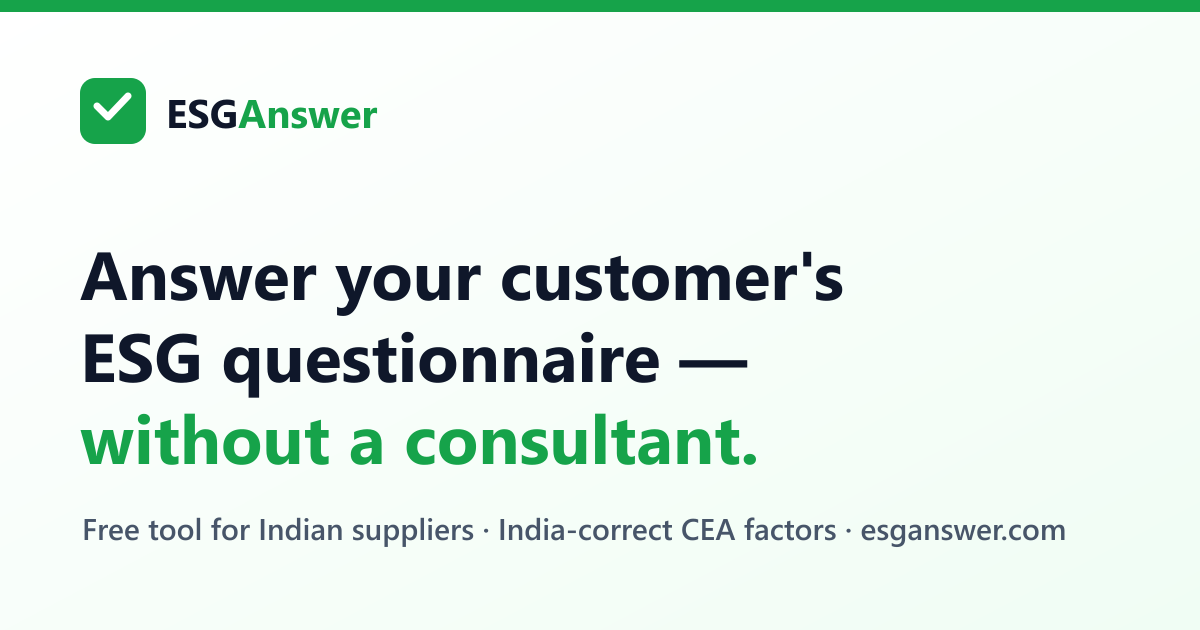
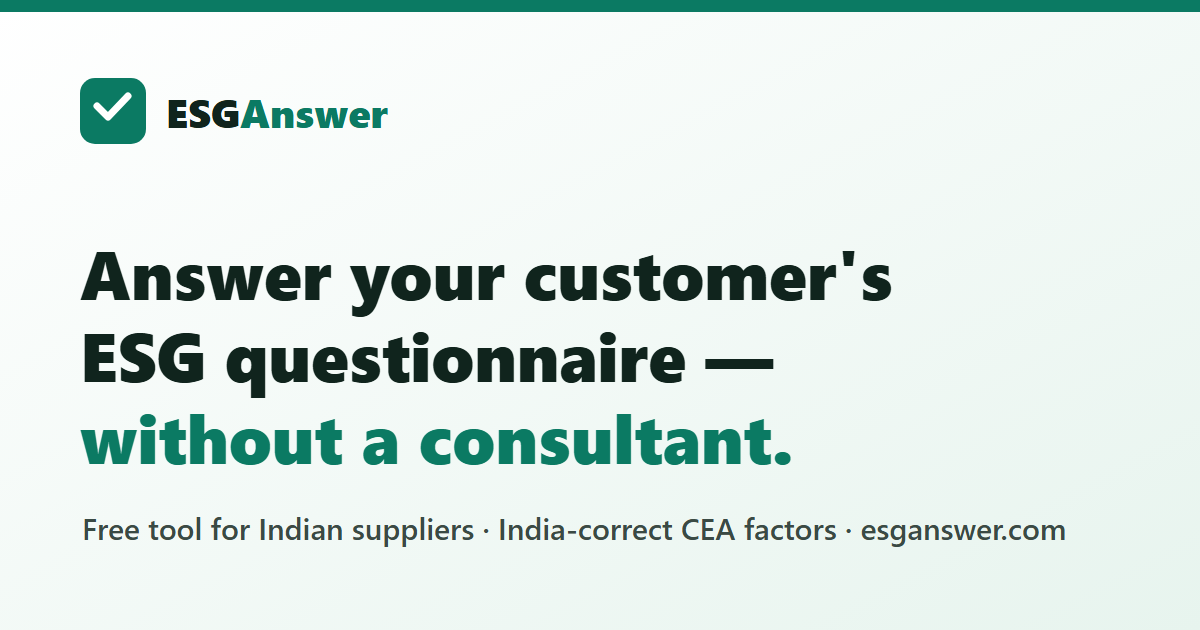
Rebrand to a distinct identity + ship evidence-folder template
- New visual identity, separate from wibest: Space Grotesk headings +
  Inter body (was Outfit/DM Sans), deeper emerald-teal palette (#0b7a63)
  on a warm paper background. Applied across homepage, all 5 guides,
  shared style.css, favicon, apple-touch icon and OG image.
- Add downloadable ESG Evidence Folder spreadsheet (6 tabs: Read Me,
  Company Profile, Environment & Carbon, Social, Governance, auto-
  calculating Carbon Summary using CEA V21 grid factor 0.7117).
- Lead form now delivers the template instantly on submit and keeps the
  Formspree hook for optional email capture; evidence-folder guide gets
  a direct download CTA.

diff --git a/index.html b/index.html
@@ -13,11 +13,11 @@
 <meta property="og:url" content="https://esganswer.com/">
 <link rel="preconnect" href="https://fonts.googleapis.com">
 <link rel="preconnect" href="https://fonts.gstatic.com" crossorigin>
-<link href="https://fonts.googleapis.com/css2?family=DM+Sans:wght@400;500;600;700&family=Outfit:wght@600;700;800&display=swap" rel="stylesheet">
+<link href="https://fonts.googleapis.com/css2?family=Inter:wght@400;500;600;700&family=Space+Grotesk:wght@500;600;700&display=swap" rel="stylesheet">
 <link rel="icon" href="/favicon.svg" type="image/svg+xml">
 <link rel="icon" href="/favicon-32.png" sizes="32x32" type="image/png">
 <link rel="apple-touch-icon" href="/apple-touch-icon.png">
-<meta name="theme-color" content="#16a34a">
+<meta name="theme-color" content="#0b7a63">
 <meta property="og:image" content="https://esganswer.com/og-image.png">
 <meta property="og:image:width" content="1200">
 <meta property="og:image:height" content="630">
@@ -25,26 +25,26 @@
 
 <style>
 :root{
-  --green:#16a34a; --green-d:#15803d; --ink:#0f172a; --body:#334155; --muted:#64748b;
-  --bg:#ffffff; --card:#f8fafc; --border:#e2e8f0; --green-light:#f0fdf4;
+  --green:#0b7a63; --green-d:#075345; --ink:#10241d; --body:#3a4a44; --muted:#6b7a73;
+  --bg:#f8faf8; --card:#eef3f0; --border:#dce5e0; --green-light:#e7f4ee;
 }
 *{box-sizing:border-box}
-body{margin:0;font-family:'DM Sans',system-ui,sans-serif;color:var(--body);background:var(--bg);line-height:1.6;-webkit-font-smoothing:antialiased}
-h1,h2,h3,.brand{font-family:'Outfit',sans-serif;color:var(--ink);letter-spacing:-0.02em}
+body{margin:0;font-family:'Inter',system-ui,sans-serif;color:var(--body);background:var(--bg);line-height:1.6;-webkit-font-smoothing:antialiased}
+h1,h2,h3,.brand{font-family:'Space Grotesk',sans-serif;color:var(--ink);letter-spacing:-0.02em}
 a{color:var(--green-d)}
 .wrap{max-width:960px;margin:0 auto;padding:0 22px}
 
 /* header */
 header.site{border-bottom:1px solid var(--border);padding:16px 0;position:sticky;top:0;background:rgba(255,255,255,.92);backdrop-filter:blur(8px);z-index:10}
 .site .wrap{display:flex;align-items:center;justify-content:space-between}
-.brand{font-size:20px;font-weight:800;color:var(--ink);text-decoration:none;display:flex;align-items:center;gap:8px}
+.brand{font-size:20px;font-weight:700;color:var(--ink);text-decoration:none;display:flex;align-items:center;gap:8px}
 .brand svg{color:var(--green)}
 .brand span{color:var(--green)}
 .tagline{font-size:12.5px;color:var(--muted)}
 
 /* hero */
 .hero{padding:48px 0 12px;text-align:center}
-.hero h1{font-size:34px;font-weight:800;line-height:1.15;margin:0 0 14px}
+.hero h1{font-size:34px;font-weight:700;line-height:1.15;margin:0 0 14px}
 .hero p{font-size:17px;color:var(--body);max-width:680px;margin:0 auto 8px}
 .hero .sub{font-size:14px;color:var(--muted)}
 .pill{display:inline-block;background:var(--green-light);color:var(--green-d);font-size:12.5px;font-weight:700;padding:5px 13px;border-radius:99px;margin-bottom:18px}
@@ -70,18 +70,18 @@ header.site{border-bottom:1px solid var(--border);padding:16px 0;position:sticky
 .conv-box.open{display:block}
 
 /* summary */
-.summary{position:sticky;top:84px;background:linear-gradient(160deg,#ffffff,#f0fdf4);border:1px solid var(--border);border-radius:16px;padding:24px}
+.summary{position:sticky;top:84px;background:linear-gradient(160deg,#ffffff,#e7f4ee);border:1px solid var(--border);border-radius:16px;padding:24px}
 .summary h3{font-size:13px;text-transform:uppercase;letter-spacing:.05em;color:var(--muted);margin:0 0 14px;font-weight:700}
-.big-num{font-family:'Outfit';font-size:40px;font-weight:800;color:var(--green-d);line-height:1;letter-spacing:-.03em}
+.big-num{font-family:'Space Grotesk';font-size:40px;font-weight:700;color:var(--green-d);line-height:1;letter-spacing:-.03em}
 .big-num small{font-size:15px;color:var(--muted);font-weight:600}
 .sline{display:flex;justify-content:space-between;align-items:baseline;padding:9px 0;border-bottom:1px solid var(--border);font-size:13.5px}
 .sline:last-of-type{border-bottom:none}
-.sline .v{font-family:'Outfit';font-weight:700;color:var(--ink)}
+.sline .v{font-family:'Space Grotesk';font-weight:700;color:var(--ink)}
 .scope-split{display:flex;gap:8px;margin:14px 0}
 .scope-split>div{flex:1;background:#fff;border:1px solid var(--border);border-radius:10px;padding:10px;text-align:center}
 .scope-split .lab{font-size:11px;color:var(--muted)}
-.scope-split .v{font-family:'Outfit';font-weight:800;font-size:18px;color:var(--ink)}
-.btn{display:block;width:100%;text-align:center;padding:12px;background:var(--green);color:#fff;border:none;border-radius:10px;font-family:'Outfit';font-weight:700;font-size:14.5px;cursor:pointer;margin-top:16px;text-decoration:none}
+.scope-split .v{font-family:'Space Grotesk';font-weight:700;font-size:18px;color:var(--ink)}
+.btn{display:block;width:100%;text-align:center;padding:12px;background:var(--green);color:#fff;border:none;border-radius:10px;font-family:'Space Grotesk';font-weight:700;font-size:14.5px;cursor:pointer;margin-top:16px;text-decoration:none}
 .btn:hover{background:var(--green-d)}
 .btn.secondary{background:#fff;color:var(--green-d);border:1px solid var(--green);margin-top:9px}
 .gaps{margin-top:14px;font-size:12.5px;color:var(--muted)}
@@ -89,11 +89,11 @@ header.site{border-bottom:1px solid var(--border);padding:16px 0;position:sticky
 
 /* content sections */
 section.block{padding:40px 0;border-top:1px solid var(--border)}
-section.block h2{font-size:26px;font-weight:800;margin:0 0 18px}
+section.block h2{font-size:26px;font-weight:700;margin:0 0 18px}
 .steps{display:grid;gap:14px}
 .step{display:flex;gap:14px;background:var(--card);border:1px solid var(--border);border-radius:12px;padding:16px 18px}
-.step .n{flex:none;width:30px;height:30px;border-radius:50%;background:var(--green);color:#fff;font-family:'Outfit';font-weight:800;display:flex;align-items:center;justify-content:center;font-size:14px}
-.step h4{font-family:'Outfit';margin:0 0 3px;font-size:15px;color:var(--ink)}
+.step .n{flex:none;width:30px;height:30px;border-radius:50%;background:var(--green);color:#fff;font-family:'Space Grotesk';font-weight:700;display:flex;align-items:center;justify-content:center;font-size:14px}
+.step h4{font-family:'Space Grotesk';margin:0 0 3px;font-size:15px;color:var(--ink)}
 .step p{margin:0;font-size:13.5px}
 .faq details{border:1px solid var(--border);border-radius:10px;padding:14px 18px;margin-bottom:10px;background:var(--card)}
 .faq summary{font-weight:700;color:var(--ink);cursor:pointer;font-size:15px;list-style:none}
@@ -242,11 +242,11 @@ footer .method{max-width:680px;margin:0 auto 14px;line-height:1.7}
   <div class="wrap">
     <h2>Free step-by-step guides</h2>
     <div style="display:grid;gap:10px;margin-top:6px">
-      <a href="/got-an-esg-questionnaire/" style="padding:14px 16px;background:var(--card);border:1px solid var(--border);border-radius:11px;text-decoration:none;color:var(--ink);font-family:'Outfit';font-weight:700">Got an ESG questionnaire from a customer? What to do →</a>
-      <a href="/brsr-value-chain-suppliers/" style="padding:14px 16px;background:var(--card);border:1px solid var(--border);border-radius:11px;text-decoration:none;color:var(--ink);font-family:'Outfit';font-weight:700">BRSR value-chain rules for suppliers (FY2026–27) →</a>
-      <a href="/calculate-carbon-footprint-small-business-india/" style="padding:14px 16px;background:var(--card);border:1px solid var(--border);border-radius:11px;text-decoration:none;color:var(--ink);font-family:'Outfit';font-weight:700">How to calculate your small business carbon footprint in India →</a>
-      <a href="/vsme-template-explained/" style="padding:14px 16px;background:var(--card);border:1px solid var(--border);border-radius:11px;text-decoration:none;color:var(--ink);font-family:'Outfit';font-weight:700">The VSME template explained — for small suppliers →</a>
-      <a href="/esg-evidence-folder-msme/" style="padding:14px 16px;background:var(--card);border:1px solid var(--border);border-radius:11px;text-decoration:none;color:var(--ink);font-family:'Outfit';font-weight:700">The 1-page data folder that answers every questionnaire →</a>
+      <a href="/got-an-esg-questionnaire/" style="padding:14px 16px;background:var(--card);border:1px solid var(--border);border-radius:11px;text-decoration:none;color:var(--ink);font-family:'Space Grotesk';font-weight:700">Got an ESG questionnaire from a customer? What to do →</a>
+      <a href="/brsr-value-chain-suppliers/" style="padding:14px 16px;background:var(--card);border:1px solid var(--border);border-radius:11px;text-decoration:none;color:var(--ink);font-family:'Space Grotesk';font-weight:700">BRSR value-chain rules for suppliers (FY2026–27) →</a>
+      <a href="/calculate-carbon-footprint-small-business-india/" style="padding:14px 16px;background:var(--card);border:1px solid var(--border);border-radius:11px;text-decoration:none;color:var(--ink);font-family:'Space Grotesk';font-weight:700">How to calculate your small business carbon footprint in India →</a>
+      <a href="/vsme-template-explained/" style="padding:14px 16px;background:var(--card);border:1px solid var(--border);border-radius:11px;text-decoration:none;color:var(--ink);font-family:'Space Grotesk';font-weight:700">The VSME template explained — for small suppliers →</a>
+      <a href="/esg-evidence-folder-msme/" style="padding:14px 16px;background:var(--card);border:1px solid var(--border);border-radius:11px;text-decoration:none;color:var(--ink);font-family:'Space Grotesk';font-weight:700">The 1-page data folder that answers every questionnaire →</a>
     </div>
   </div>
 </section>
@@ -254,13 +254,13 @@ footer .method{max-width:680px;margin:0 auto 14px;line-height:1.7}
 <section class="block" style="text-align:center">
   <div class="wrap" style="max-width:560px">
     <h2>Get the editable evidence-folder template</h2>
-    <p style="margin-top:-6px">A free spreadsheet with every field a customer questionnaire asks for — fill once, reuse forever. We'll email it to you.</p>
+    <p style="margin-top:-6px">A free spreadsheet with every field a customer questionnaire asks for, plus an auto-calculating carbon summary — fill once, reuse forever. Download it instantly below.</p>
     <form id="leadForm" onsubmit="return submitLead(event)" style="display:flex;gap:8px;justify-content:center;flex-wrap:wrap;margin-top:14px">
       <input type="email" id="leadEmail" required placeholder="you@company" style="flex:1;min-width:220px;padding:11px 14px;border:1px solid var(--border);border-radius:10px;font-family:inherit;font-size:15px">
-      <button class="btn" type="submit" style="width:auto;margin:0;padding:11px 22px">Send it to me</button>
+      <button class="btn" type="submit" style="width:auto;margin:0;padding:11px 22px">Download the template</button>
     </form>
     <p id="leadMsg" style="font-size:13px;color:var(--green-d);min-height:18px;margin-top:10px"></p>
-    <p style="font-size:11.5px;color:var(--muted)">We never share your email. No spam — the template plus occasional supplier-ESG tips.</p>
+    <p style="font-size:11.5px;color:var(--muted)">Instant download — no waiting. We never share your email. No spam, just the occasional supplier-ESG tip. · <a href="/esg-evidence-folder-template.xlsx" download>Direct download</a></p>
   </div>
 </section>
 
@@ -336,19 +336,26 @@ function calc(){
 }
 calc();
 
-// ===== Email capture =====
-// TODO before launch: paste your Formspree / Netlify Forms endpoint below to actually
-// receive emails. Until then, entries are kept in localStorage only (nothing is sent).
+// ===== Template delivery + email capture =====
+// The template downloads instantly on submit (below). To ALSO collect emails as leads,
+// create a free form at formspree.io and paste its endpoint here (e.g. https://formspree.io/f/abcdwxyz).
+// Leave blank and the download still works — emails are just kept in this browser's localStorage.
 var FORM_ENDPOINT = "";
+var TEMPLATE_URL = "/esg-evidence-folder-template.xlsx";
 function submitLead(e){
   e.preventDefault();
   var em = document.getElementById('leadEmail').value;
+  // capture the lead (non-blocking)
   if(FORM_ENDPOINT){
-    fetch(FORM_ENDPOINT,{method:'POST',headers:{'Content-Type':'application/json'},body:JSON.stringify({email:em,source:'esganswer-template'})}).catch(function(){});
+    fetch(FORM_ENDPOINT,{method:'POST',headers:{'Content-Type':'application/json','Accept':'application/json'},body:JSON.stringify({email:em,source:'esganswer-evidence-folder'})}).catch(function(){});
   } else {
     try{ localStorage.setItem('esg_lead', em); }catch(_){}
   }
-  document.getElementById('leadMsg').textContent = "Thanks — we'll send the template to " + em + " shortly.";
+  // deliver the template immediately
+  var a = document.createElement('a');
+  a.href = TEMPLATE_URL; a.download = 'esg-evidence-folder-template.xlsx';
+  document.body.appendChild(a); a.click(); a.remove();
+  document.getElementById('leadMsg').textContent = "Done — your template is downloading. Didn't start? Use the direct-download link below.";
   document.getElementById('leadForm').reset();
   return false;
 }

diff --git a/style.css b/style.css
@@ -1,24 +1,24 @@
 /* ESG Answer — shared styles for content/article pages */
 :root{
-  --green:#16a34a; --green-d:#15803d; --ink:#0f172a; --body:#334155; --muted:#64748b;
-  --bg:#ffffff; --card:#f8fafc; --border:#e2e8f0; --green-light:#f0fdf4;
+  --green:#0b7a63; --green-d:#075345; --ink:#10241d; --body:#3a4a44; --muted:#6b7a73;
+  --bg:#f8faf8; --card:#eef3f0; --border:#dce5e0; --green-light:#e7f4ee;
 }
 *{box-sizing:border-box}
-body{margin:0;font-family:'DM Sans',system-ui,sans-serif;color:var(--body);background:var(--bg);line-height:1.7;-webkit-font-smoothing:antialiased}
-h1,h2,h3,h4,.brand{font-family:'Outfit',sans-serif;color:var(--ink);letter-spacing:-0.02em}
+body{margin:0;font-family:'Inter',system-ui,sans-serif;color:var(--body);background:var(--bg);line-height:1.7;-webkit-font-smoothing:antialiased}
+h1,h2,h3,h4,.brand{font-family:'Space Grotesk',sans-serif;color:var(--ink);letter-spacing:-0.02em}
 a{color:var(--green-d)}
 .wrap{max-width:760px;margin:0 auto;padding:0 22px}
 
 header.site{border-bottom:1px solid var(--border);padding:16px 0;position:sticky;top:0;background:rgba(255,255,255,.92);backdrop-filter:blur(8px);z-index:10}
 header.site .wrap{max-width:960px;display:flex;align-items:center;justify-content:space-between}
-.brand{font-size:20px;font-weight:800;color:var(--ink);text-decoration:none;display:flex;align-items:center;gap:8px}
+.brand{font-size:20px;font-weight:700;color:var(--ink);text-decoration:none;display:flex;align-items:center;gap:8px}
 .brand svg{color:var(--green)}
 .brand span{color:var(--green)}
 .tagline{font-size:12.5px;color:var(--muted)}
 
 .bc{font-size:12.5px;color:var(--muted);margin:26px 0 6px}
 .bc a{color:var(--green-d);text-decoration:none}
-article h1{font-size:33px;font-weight:800;line-height:1.18;margin:6px 0 8px}
+article h1{font-size:33px;font-weight:700;line-height:1.18;margin:6px 0 8px}
 .meta{font-size:13px;color:var(--muted);margin-bottom:8px}
 .lede{font-size:18px;color:var(--body);margin:14px 0 26px}
 article h2{font-size:23px;font-weight:700;margin:34px 0 12px}
@@ -27,13 +27,13 @@ article p,article li{font-size:16px}
 article ul,article ol{padding-left:22px}
 article li{margin-bottom:7px}
 blockquote{margin:20px 0;padding:14px 20px;background:var(--card);border-left:4px solid var(--green);border-radius:0 10px 10px 0;color:var(--body)}
-.tldr{background:var(--green-light);border:1px solid #bbf7d0;border-radius:12px;padding:18px 22px;margin:22px 0}
+.tldr{background:var(--green-light);border:1px solid #b9ddcb;border-radius:12px;padding:18px 22px;margin:22px 0}
 .tldr b{color:var(--green-d)}
 
-.cta{margin:30px 0;padding:22px;background:linear-gradient(135deg,#f0fdf4,#ecfdf5);border:1px solid #bbf7d0;border-radius:14px;text-align:center}
+.cta{margin:30px 0;padding:22px;background:linear-gradient(135deg,#e7f4ee,#eef7f2);border:1px solid #b9ddcb;border-radius:14px;text-align:center}
 .cta h3{margin:0 0 6px;font-size:18px}
 .cta p{margin:0 0 14px;font-size:14px;color:var(--body)}
-.cta a.btn{display:inline-block;padding:12px 24px;background:var(--green);color:#fff;border-radius:10px;font-family:'Outfit';font-weight:700;font-size:15px;text-decoration:none}
+.cta a.btn{display:inline-block;padding:12px 24px;background:var(--green);color:#fff;border-radius:10px;font-family:'Space Grotesk';font-weight:700;font-size:15px;text-decoration:none}
 .cta a.btn:hover{background:var(--green-d)}
 
 .related{margin:36px 0 0;padding-top:22px;border-top:1px solid var(--border)}

diff --git a/esg-evidence-folder-msme/index.html b/esg-evidence-folder-msme/index.html
@@ -9,11 +9,11 @@
 <meta property="og:title" content="The 1-Page ESG Data Folder for MSMEs">
 <meta property="og:url" content="https://esganswer.com/esg-evidence-folder-msme/">
 <link rel="preconnect" href="https://fonts.googleapis.com"><link rel="preconnect" href="https://fonts.gstatic.com" crossorigin>
-<link href="https://fonts.googleapis.com/css2?family=DM+Sans:wght@400;500;600;700&family=Outfit:wght@600;700;800&display=swap" rel="stylesheet">
+<link href="https://fonts.googleapis.com/css2?family=Inter:wght@400;500;600;700&family=Space+Grotesk:wght@500;600;700&display=swap" rel="stylesheet">
 <link rel="icon" href="/favicon.svg" type="image/svg+xml">
 <link rel="icon" href="/favicon-32.png" sizes="32x32" type="image/png">
 <link rel="apple-touch-icon" href="/apple-touch-icon.png">
-<meta name="theme-color" content="#16a34a">
+<meta name="theme-color" content="#0b7a63">
 <meta property="og:image" content="https://esganswer.com/og-image.png">
 <meta property="og:image:width" content="1200">
 <meta property="og:image:height" content="630">
@@ -74,8 +74,14 @@
   <p>That's the entire system. Twenty minutes a year converts ESG questionnaires from a panic into a routine task.</p>
 
   <div class="cta">
+    <h3>Download the ready-made template</h3>
+    <p>A free Excel workbook with every field below already laid out — company profile, environment, social, governance — and a carbon summary that calculates Scope 1 + Scope 2 for you. Fill once, reuse for every questionnaire.</p>
+    <a class="btn" href="/esg-evidence-folder-template.xlsx" download>Download the evidence folder (.xlsx) →</a>
+  </div>
+
+  <div class="cta">
     <h3>Fill the emissions rows automatically</h3>
-    <p>Enter your bills once in the free Supplier ESG Self-Check; it calculates Scope 1 + Scope 2 and gives you a summary to paste into your folder.</p>
+    <p>Prefer to start online? Enter your bills once in the free Supplier ESG Self-Check; it calculates Scope 1 + Scope 2 and gives you a summary to paste into your folder.</p>
     <a class="btn" href="/">Open the free tool →</a>
   </div>
 

diff --git a/brsr-value-chain-suppliers/index.html b/brsr-value-chain-suppliers/index.html
@@ -9,11 +9,11 @@
 <meta property="og:title" content="BRSR Value-Chain Rules for Suppliers (FY2026–27)">
 <meta property="og:url" content="https://esganswer.com/brsr-value-chain-suppliers/">
 <link rel="preconnect" href="https://fonts.googleapis.com"><link rel="preconnect" href="https://fonts.gstatic.com" crossorigin>
-<link href="https://fonts.googleapis.com/css2?family=DM+Sans:wght@400;500;600;700&family=Outfit:wght@600;700;800&display=swap" rel="stylesheet">
+<link href="https://fonts.googleapis.com/css2?family=Inter:wght@400;500;600;700&family=Space+Grotesk:wght@500;600;700&display=swap" rel="stylesheet">
 <link rel="icon" href="/favicon.svg" type="image/svg+xml">
 <link rel="icon" href="/favicon-32.png" sizes="32x32" type="image/png">
 <link rel="apple-touch-icon" href="/apple-touch-icon.png">
-<meta name="theme-color" content="#16a34a">
+<meta name="theme-color" content="#0b7a63">
 <meta property="og:image" content="https://esganswer.com/og-image.png">
 <meta property="og:image:width" content="1200">
 <meta property="og:image:height" content="630">

diff --git a/calculate-carbon-footprint-small-business-india/index.html b/calculate-carbon-footprint-small-business-india/index.html
@@ -9,11 +9,11 @@
 <meta property="og:title" content="Calculate Your Small Business Carbon Footprint in India">
 <meta property="og:url" content="https://esganswer.com/calculate-carbon-footprint-small-business-india/">
 <link rel="preconnect" href="https://fonts.googleapis.com"><link rel="preconnect" href="https://fonts.gstatic.com" crossorigin>
-<link href="https://fonts.googleapis.com/css2?family=DM+Sans:wght@400;500;600;700&family=Outfit:wght@600;700;800&display=swap" rel="stylesheet">
+<link href="https://fonts.googleapis.com/css2?family=Inter:wght@400;500;600;700&family=Space+Grotesk:wght@500;600;700&display=swap" rel="stylesheet">
 <link rel="icon" href="/favicon.svg" type="image/svg+xml">
 <link rel="icon" href="/favicon-32.png" sizes="32x32" type="image/png">
 <link rel="apple-touch-icon" href="/apple-touch-icon.png">
-<meta name="theme-color" content="#16a34a">
+<meta name="theme-color" content="#0b7a63">
 <meta property="og:image" content="https://esganswer.com/og-image.png">
 <meta property="og:image:width" content="1200">
 <meta property="og:image:height" content="630">

diff --git a/got-an-esg-questionnaire/index.html b/got-an-esg-questionnaire/index.html
@@ -9,11 +9,11 @@
 <meta property="og:title" content="Got an ESG Questionnaire From a Customer? What to Do (2026)">
 <meta property="og:url" content="https://esganswer.com/got-an-esg-questionnaire/">
 <link rel="preconnect" href="https://fonts.googleapis.com"><link rel="preconnect" href="https://fonts.gstatic.com" crossorigin>
-<link href="https://fonts.googleapis.com/css2?family=DM+Sans:wght@400;500;600;700&family=Outfit:wght@600;700;800&display=swap" rel="stylesheet">
+<link href="https://fonts.googleapis.com/css2?family=Inter:wght@400;500;600;700&family=Space+Grotesk:wght@500;600;700&display=swap" rel="stylesheet">
 <link rel="icon" href="/favicon.svg" type="image/svg+xml">
 <link rel="icon" href="/favicon-32.png" sizes="32x32" type="image/png">
 <link rel="apple-touch-icon" href="/apple-touch-icon.png">
-<meta name="theme-color" content="#16a34a">
+<meta name="theme-color" content="#0b7a63">
 <meta property="og:image" content="https://esganswer.com/og-image.png">
 <meta property="og:image:width" content="1200">
 <meta property="og:image:height" content="630">

diff --git a/vsme-template-explained/index.html b/vsme-template-explained/index.html
@@ -9,11 +9,11 @@
 <meta property="og:title" content="The VSME Template Explained for Small Suppliers">
 <meta property="og:url" content="https://esganswer.com/vsme-template-explained/">
 <link rel="preconnect" href="https://fonts.googleapis.com"><link rel="preconnect" href="https://fonts.gstatic.com" crossorigin>
-<link href="https://fonts.googleapis.com/css2?family=DM+Sans:wght@400;500;600;700&family=Outfit:wght@600;700;800&display=swap" rel="stylesheet">
+<link href="https://fonts.googleapis.com/css2?family=Inter:wght@400;500;600;700&family=Space+Grotesk:wght@500;600;700&display=swap" rel="stylesheet">
 <link rel="icon" href="/favicon.svg" type="image/svg+xml">
 <link rel="icon" href="/favicon-32.png" sizes="32x32" type="image/png">
 <link rel="apple-touch-icon" href="/apple-touch-icon.png">
-<meta name="theme-color" content="#16a34a">
+<meta name="theme-color" content="#0b7a63">
 <meta property="og:image" content="https://esganswer.com/og-image.png">
 <meta property="og:image:width" content="1200">
 <meta property="og:image:height" content="630">